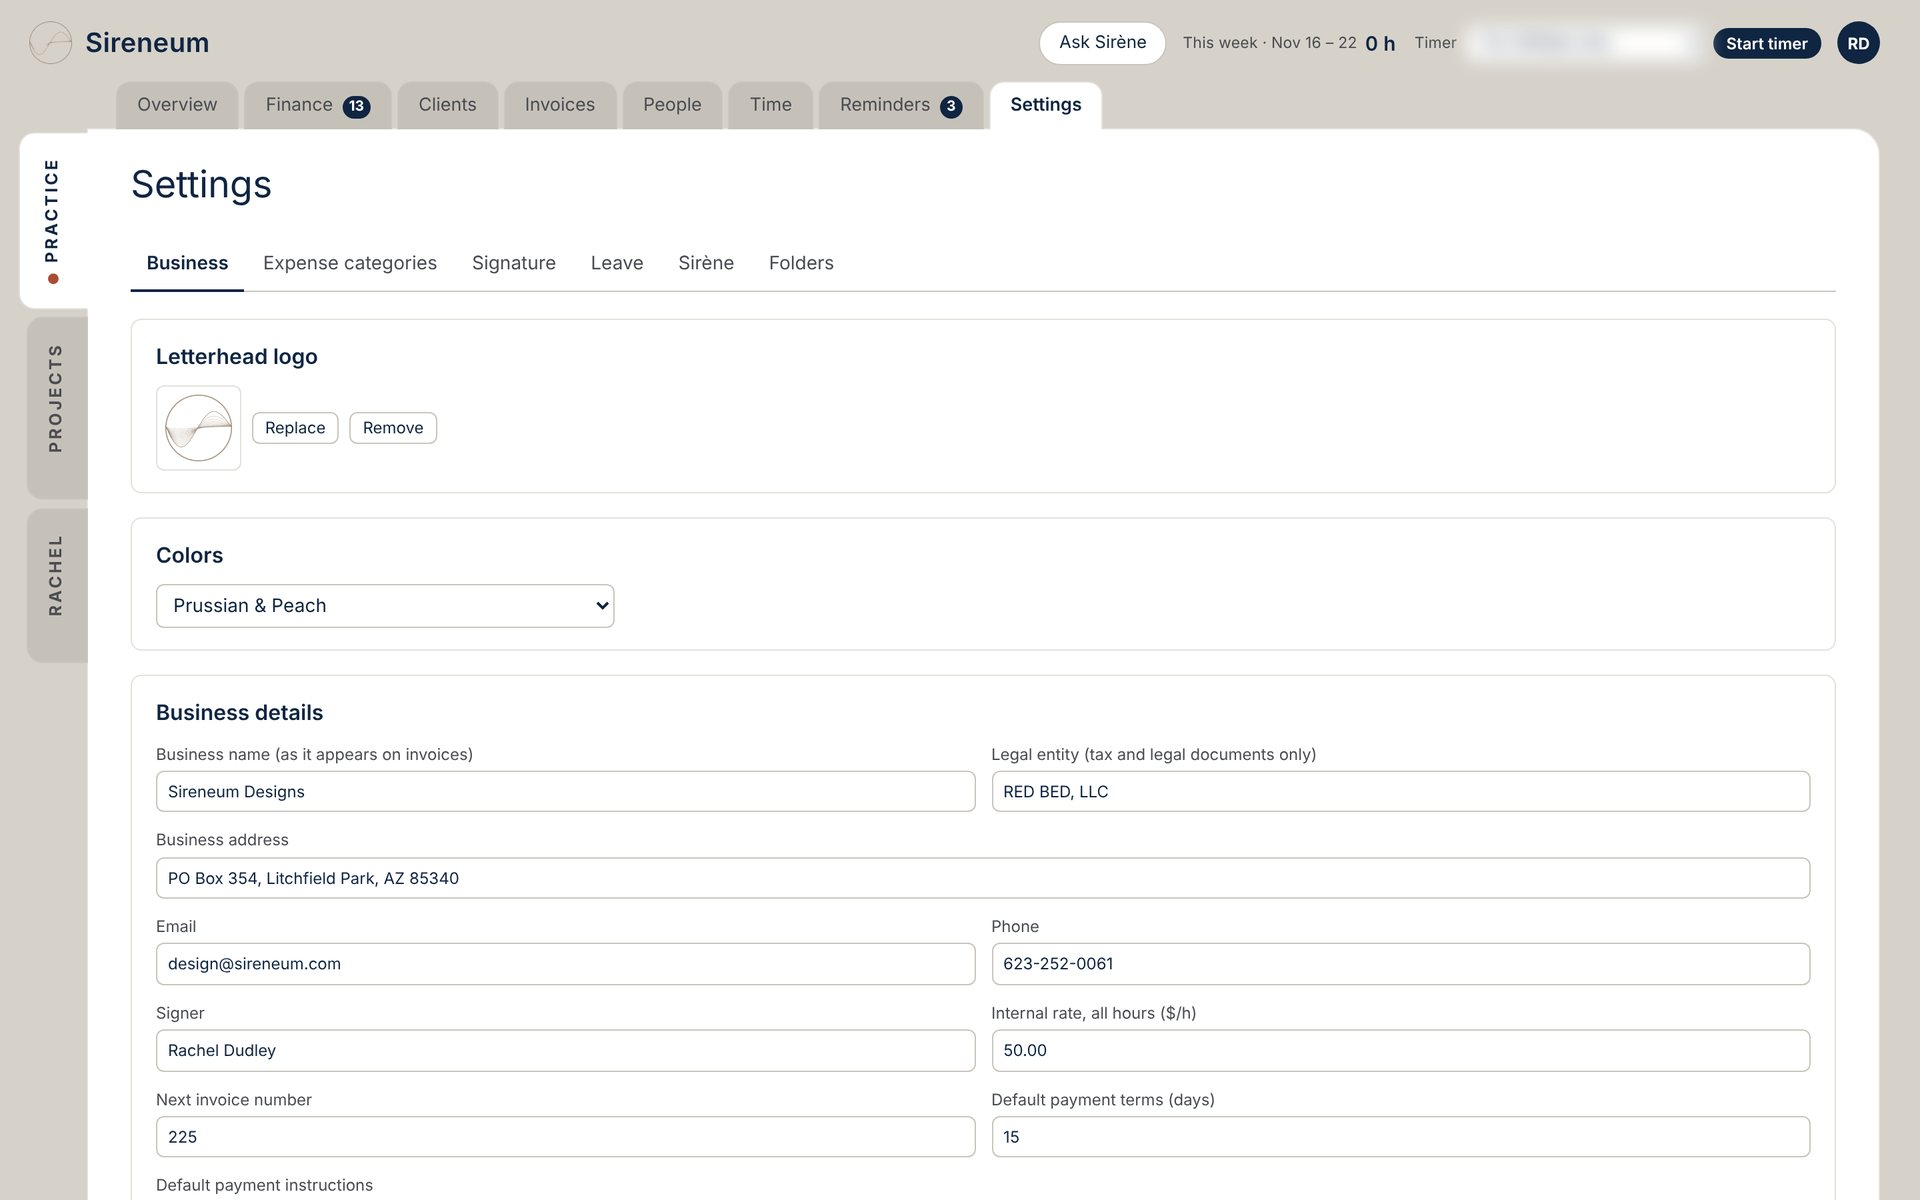
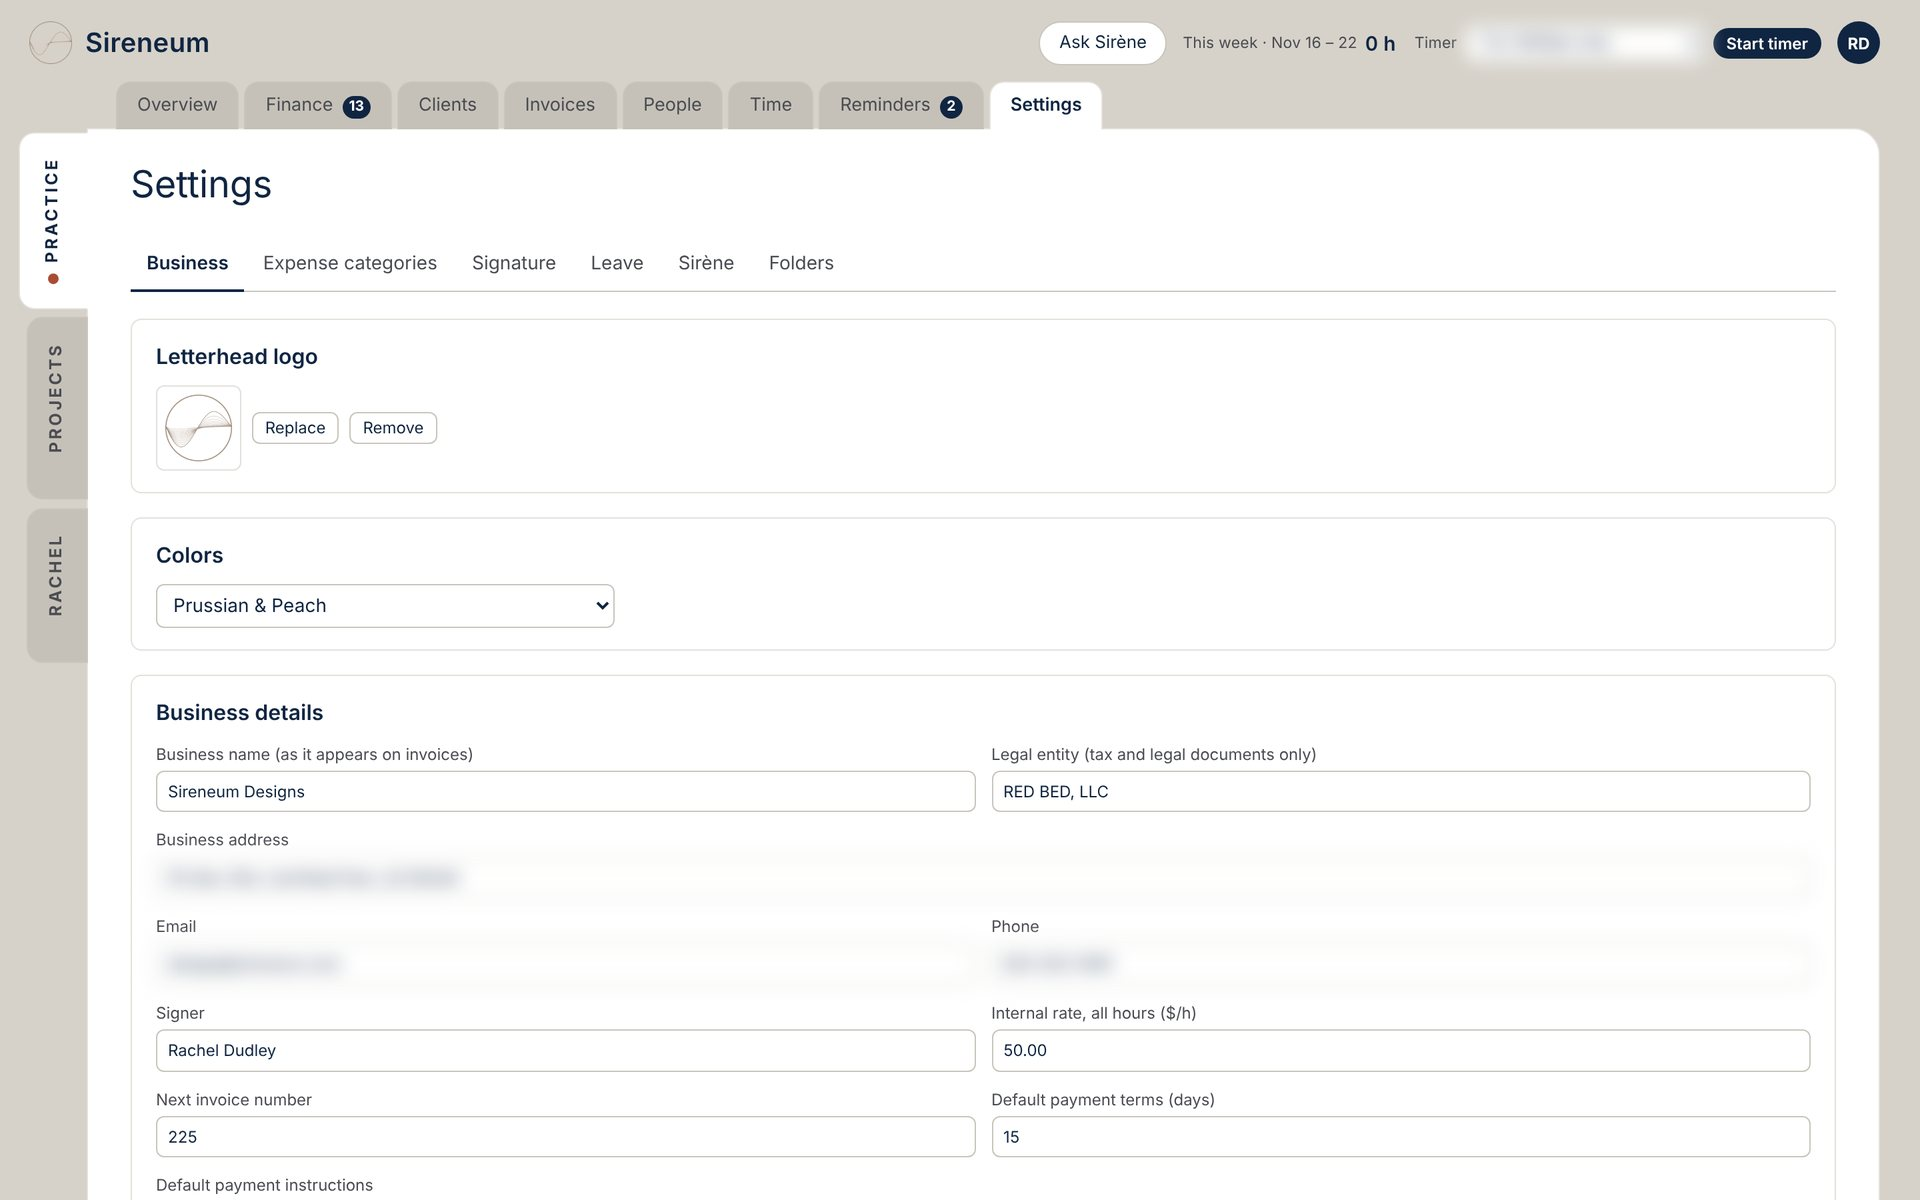
Dashboard example: blur contact details; click left/right half to move between slides
Claude-Session: https://claude.ai/code/session_01S6JviYJcCVeSZLgUm9n3fQ

Changed region(s): [[0.0938, 0.7708, 0.1875, 0.8325], [0.0938, 0.7092, 0.25, 0.74], [0.5312, 0.7708, 0.5938, 0.8325]]

diff --git a/public/dashboard_example/index.html b/public/dashboard_example/index.html
@@ -15,6 +15,8 @@ html,body{margin:0;background:#141518;}
 .frame{position:relative;width:100%;aspect-ratio:16/9;overflow:hidden;border-radius:6px;}
 .frame>section{position:absolute;left:0;top:0;width:1920px;height:1080px;box-sizing:border-box;transform-origin:0 0;transform:scale(var(--s,0.5));}
 .scr-img{cursor:zoom-in;}
+body.single .frame{cursor:pointer;}
+body.single .scr-img{cursor:pointer;}
 h1,h2,h3,p{margin:0;}
 a{color:inherit;}
 
@@ -218,7 +220,8 @@ addEventListener('keydown',e=>{if(!single)return;
 let tx=null;addEventListener('touchstart',e=>{tx=e.touches[0].clientX},{passive:true});
 addEventListener('touchend',e=>{if(!single||tx===null)return;const d=e.changedTouches[0].clientX-tx;if(Math.abs(d)>50)show(i+(d<0?1:-1));tx=null;});
 addEventListener('resize',size);
-document.querySelectorAll('.scr-img').forEach(im=>im.addEventListener('click',()=>window.open(im.src,'_blank')));
+document.querySelectorAll('.scr-img').forEach(im=>im.addEventListener('click',e=>{if(!single)window.open(im.src,'_blank');}));
+frames.forEach(f=>f.addEventListener('click',e=>{if(!single||e.target.closest('a'))return;const r=f.getBoundingClientRect();show(i+(e.clientX-r.left<r.width/2?-1:1));}));
 const h=location.hash.slice(1);if(h==='all'){mode(false);}else{i=(parseInt(h)||1)-1;mode(true);}
 </script>
 </body>
